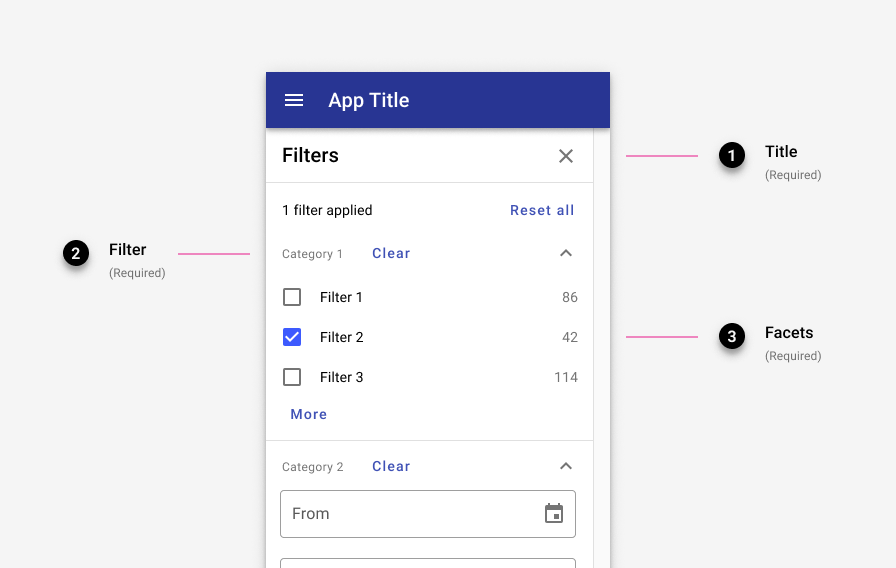
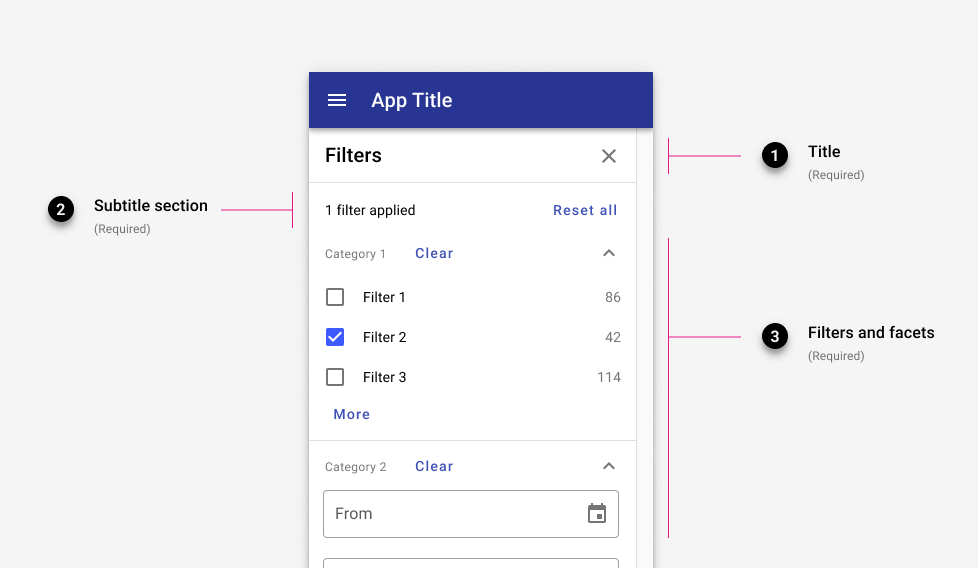
chore: fixed up details in filter sidesheet

diff --git a/docs/components/page/filter-sidesheet/filter-sidesheet.md b/docs/components/page/filter-sidesheet/filter-sidesheet.md
@@ -45,11 +45,12 @@ In general, filters are applied after an initial search has been conducted.
 </ImageBlock>
 
 ### 1. Title (required)
+The side sheet may be dismissable if a business case requires it.
 
-### 2. Filter name (required)
+### 2. Subtitle section (required)
+In the subtitle section, the total filters applied is displayed along with a "Reset all" button to clear all filters currently applied. 
 
-### 3. Facets (container is 320px by default)
-
+### 3. Filters and facets (container is 320px by default)
 Filters are categories that are comprised of individual facets. 
 
 <ImageBlock max-width="350px">
